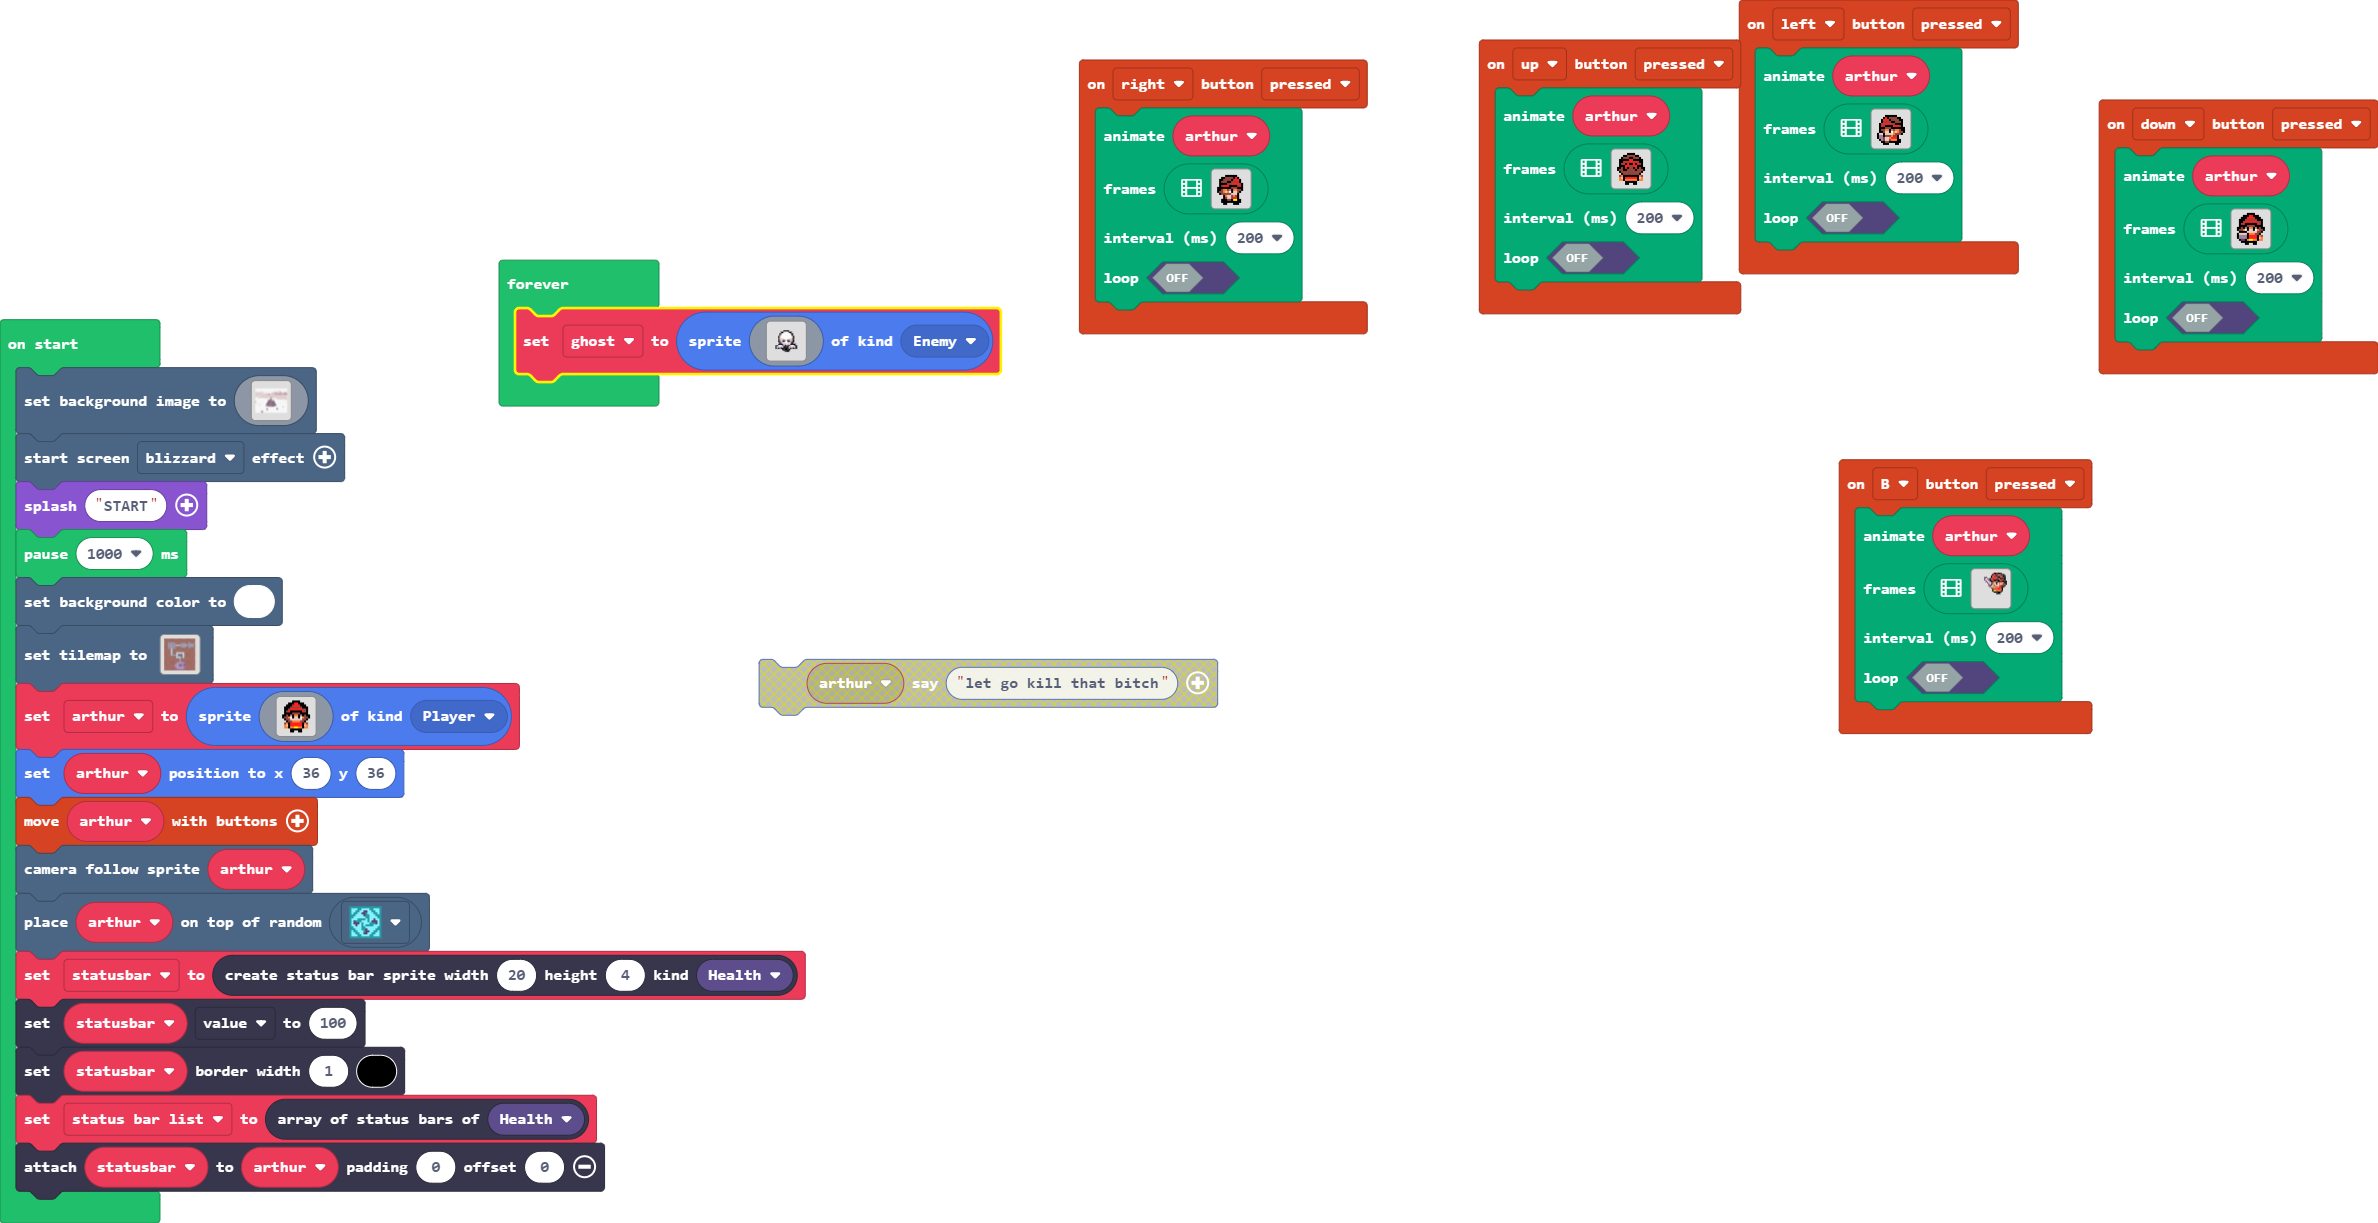
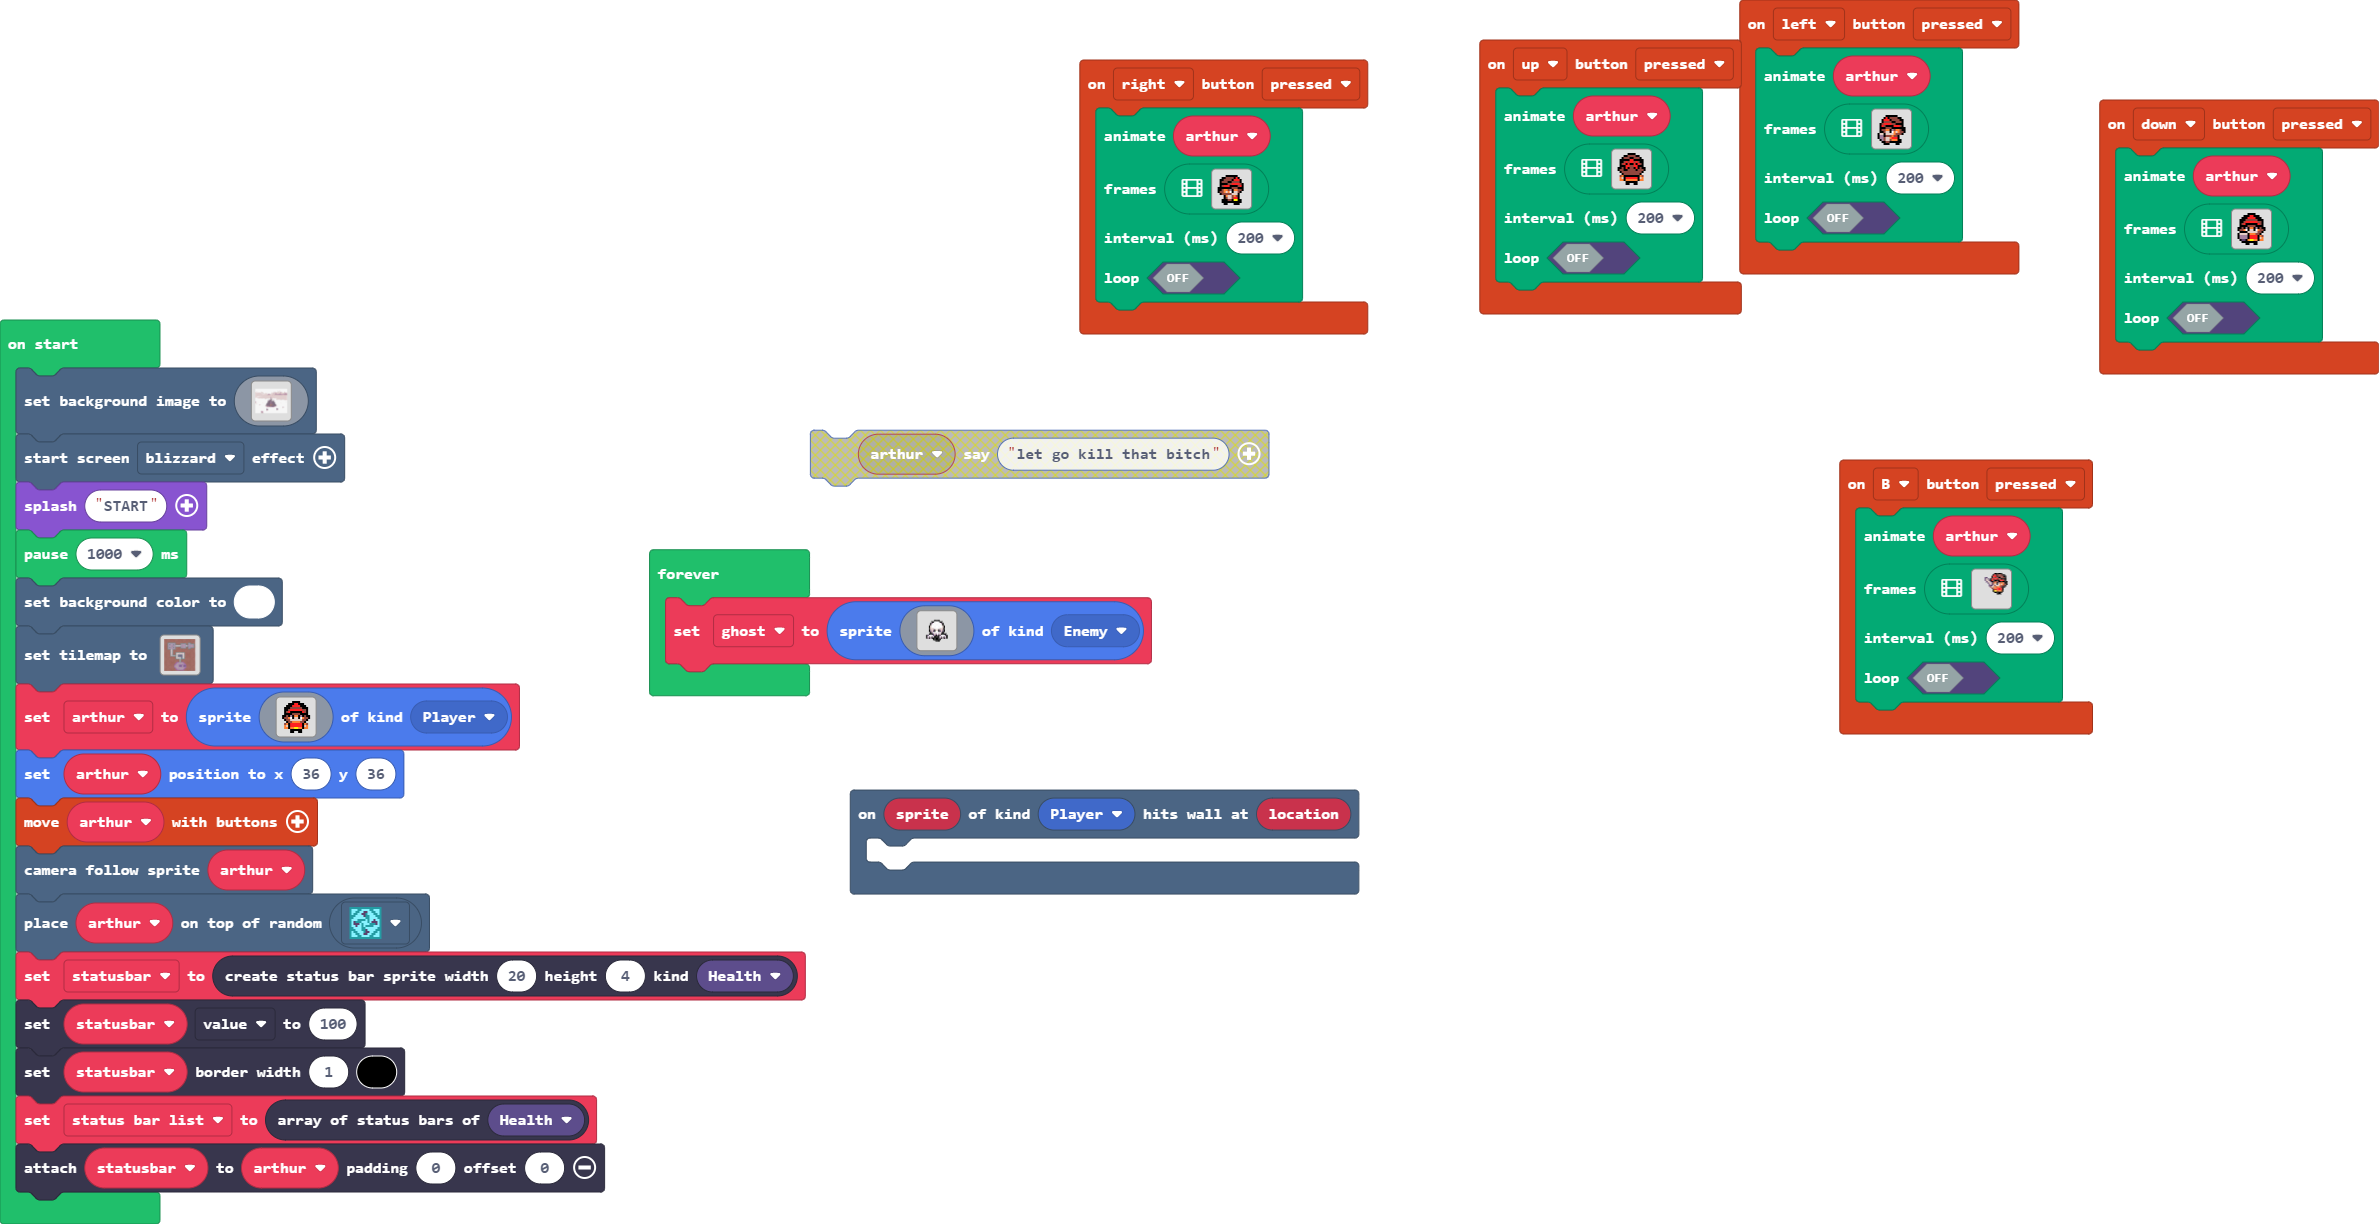
Update main.blocks, main.ts, tilemap.g.jres, tilemap.g.ts

diff --git a/tilemap.g.ts b/tilemap.g.ts
@@ -26,6 +26,16 @@ namespace myTiles {
     export const tile13 = image.ofBuffer(hex``);
     //% fixedInstance jres blockIdentity=images._tile
     export const tile3 = image.ofBuffer(hex``);
+    //% fixedInstance jres blockIdentity=images._tile
+    export const tile2 = image.ofBuffer(hex``);
+    //% fixedInstance jres blockIdentity=images._tile
+    export const tile14 = image.ofBuffer(hex``);
+    //% fixedInstance jres blockIdentity=images._tile
+    export const tile15 = image.ofBuffer(hex``);
+    //% fixedInstance jres blockIdentity=images._tile
+    export const tile16 = image.ofBuffer(hex``);
+    //% fixedInstance jres blockIdentity=images._tile
+    export const tile17 = image.ofBuffer(hex``);
 
     helpers._registerFactory("tilemap", function(name: string) {
         switch(helpers.stringTrim(name)) {
@@ -162,7 +172,7 @@ namespace myTiles {
 ..............................................................
 `, [myTiles.transparency16,sprites.dungeon.floorDark2,sprites.dungeon.greenOuterNorthWest,sprites.dungeon.floorDarkDiamond,sprites.dungeon.floorLightMoss], TileScale.Sixteen);
             case "level3":
[2 lines of base64/hex data omitted]
 ..........................................................
 ..........................................................
 ..........................................................
@@ -223,7 +233,7 @@ namespace myTiles {
 .......................222.........222....................
 ........................2222222222222.....................
 ..........................................................
-`, [myTiles.transparency16,sprites.dungeon.greenOuterSouthEast,sprites.dungeon.greenOuterSouth0,sprites.dungeon.greenOuterSouthWest,sprites.dungeon.greenOuterWest1,sprites.dungeon.greenOuterWest0,sprites.dungeon.greenOuterNorthWest,sprites.dungeon.greenOuterNorth0,sprites.dungeon.greenOuterNorthEast,sprites.dungeon.greenOuterEast0,sprites.dungeon.floorLight4,sprites.dungeon.floorLight5,sprites.dungeon.floorMixed,sprites.dungeon.greenOuterSouth2,sprites.dungeon.greenOuterNorth2,sprites.dungeon.greenOuterEast2,sprites.dungeon.greenOuterWest2,sprites.dungeon.greenOuterEast1,sprites.dungeon.purpleOuterNorth1,sprites.dungeon.purpleOuterNorthWest,sprites.dungeon.purpleOuterNorthEast,sprites.dungeon.purpleOuterWest1,sprites.dungeon.purpleOuterEast0,sprites.dungeon.purpleOuterSouth1,sprites.dungeon.darkGroundSouthWest1,sprites.dungeon.purpleOuterNorth2,sprites.dungeon.purpleOuterSouthWest,sprites.dungeon.darkGroundCenter,sprites.dungeon.purpleOuterSouthEast,sprites.dungeon.purpleOuterSouth2,sprites.dungeon.floorDark0,sprites.dungeon.floorDarkDiamond,sprites.dungeon.floorDark4,sprites.dungeon.floorDark1,sprites.dungeon.floorDark5,sprites.dungeon.stairSouth,sprites.dungeon.chestClosed,sprites.dungeon.greenInnerSouthWest,sprites.dungeon.floorLightMoss,sprites.dungeon.greenInnerNorthWest,sprites.dungeon.greenInnerNorthEast,sprites.dungeon.greenOuterNorth1,sprites.dungeon.floorDark3,sprites.dungeon.greenInnerSouthEast,myTiles.tile1,sprites.dungeon.floorLight0,sprites.dungeon.stairLarge,sprites.dungeon.purpleSwitchUp,myTiles.tile5,myTiles.tile6,myTiles.tile7,sprites.dungeon.purpleInnerSouthEast,sprites.dungeon.purpleInnerSouthWest,sprites.dungeon.purpleInnerNorthWest,sprites.dungeon.purpleInnerNorthEast,myTiles.tile12,sprites.dungeon.darkGroundSouth,myTiles.tile3], TileScale.Sixteen);
+`, [myTiles.transparency16,sprites.dungeon.greenOuterSouthEast,sprites.dungeon.greenOuterSouth0,sprites.dungeon.greenOuterSouthWest,sprites.dungeon.greenOuterWest1,sprites.dungeon.greenOuterWest0,sprites.dungeon.greenOuterNorthWest,sprites.dungeon.greenOuterNorth0,sprites.dungeon.greenOuterNorthEast,sprites.dungeon.greenOuterEast0,sprites.dungeon.floorLight4,sprites.dungeon.floorLight5,sprites.dungeon.floorMixed,sprites.dungeon.greenOuterSouth2,sprites.dungeon.greenOuterNorth2,sprites.dungeon.greenOuterEast2,sprites.dungeon.greenOuterWest2,sprites.dungeon.greenOuterEast1,sprites.dungeon.purpleOuterNorth1,sprites.dungeon.purpleOuterNorthWest,sprites.dungeon.purpleOuterNorthEast,sprites.dungeon.purpleOuterWest1,sprites.dungeon.purpleOuterEast0,sprites.dungeon.purpleOuterSouth1,sprites.dungeon.darkGroundSouthWest1,sprites.dungeon.purpleOuterNorth2,sprites.dungeon.purpleOuterSouthWest,sprites.dungeon.darkGroundCenter,sprites.dungeon.purpleOuterSouthEast,sprites.dungeon.purpleOuterSouth2,sprites.dungeon.floorDark0,sprites.dungeon.floorDarkDiamond,sprites.dungeon.floorDark4,sprites.dungeon.floorDark1,sprites.dungeon.floorDark5,sprites.dungeon.stairSouth,sprites.dungeon.chestClosed,sprites.dungeon.greenInnerSouthWest,sprites.dungeon.floorLightMoss,sprites.dungeon.greenInnerNorthWest,sprites.dungeon.greenInnerNorthEast,sprites.dungeon.greenOuterNorth1,sprites.dungeon.floorDark3,sprites.dungeon.greenInnerSouthEast,myTiles.tile1,sprites.dungeon.floorLight0,sprites.dungeon.stairLarge,sprites.dungeon.purpleSwitchUp,myTiles.tile5,myTiles.tile6,myTiles.tile7,sprites.dungeon.purpleInnerSouthEast,sprites.dungeon.purpleInnerSouthWest,sprites.dungeon.purpleInnerNorthWest,sprites.dungeon.purpleInnerNorthEast,myTiles.tile12,sprites.dungeon.darkGroundSouth,myTiles.tile3,myTiles.tile15,myTiles.tile16,myTiles.tile17], TileScale.Sixteen);
         }
         return null;
     })
@@ -255,6 +265,16 @@ namespace myTiles {
             case "tile13":return tile13;
             case "myTile1":
             case "tile3":return tile3;
+            case "myTile0":
+            case "tile2":return tile2;
+            case "myTile12":
+            case "tile14":return tile14;
+            case "myTile13":
+            case "tile15":return tile15;
+            case "myTile14":
+            case "tile16":return tile16;
+            case "myTile15":
+            case "tile17":return tile17;
         }
         return null;
     })

diff --git a/main.ts b/main.ts
@@ -74,6 +74,9 @@ controller.up.onEvent(ControllerButtonEvent.Pressed, function () {
     false
     )
 })
+scene.onHitWall(SpriteKind.Player, function (sprite, location) {
+	
+})
 controller.B.onEvent(ControllerButtonEvent.Pressed, function () {
     animation.runImageAnimation(
     arthur,
